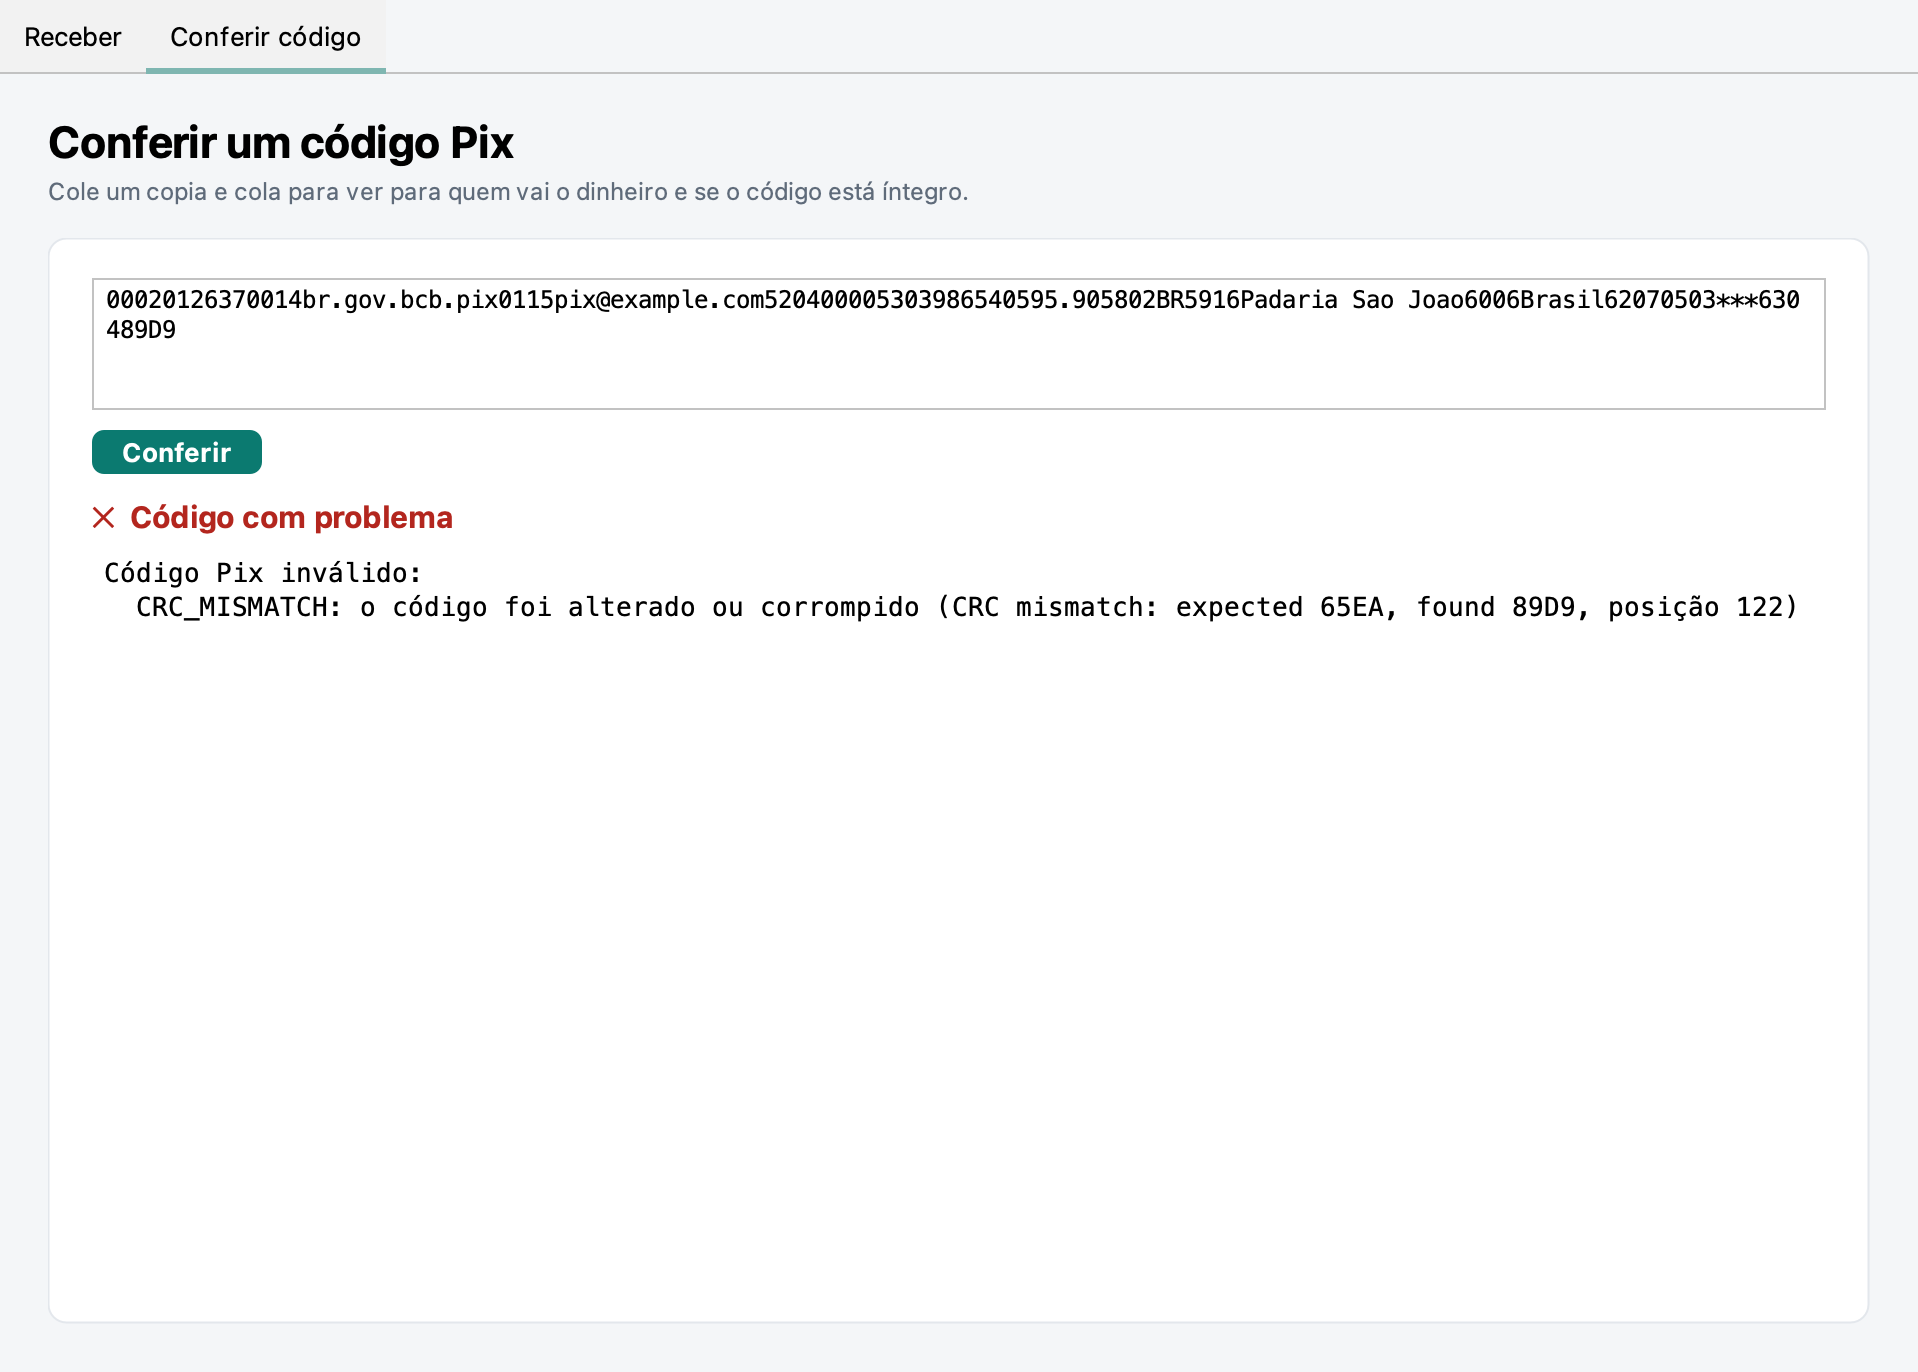
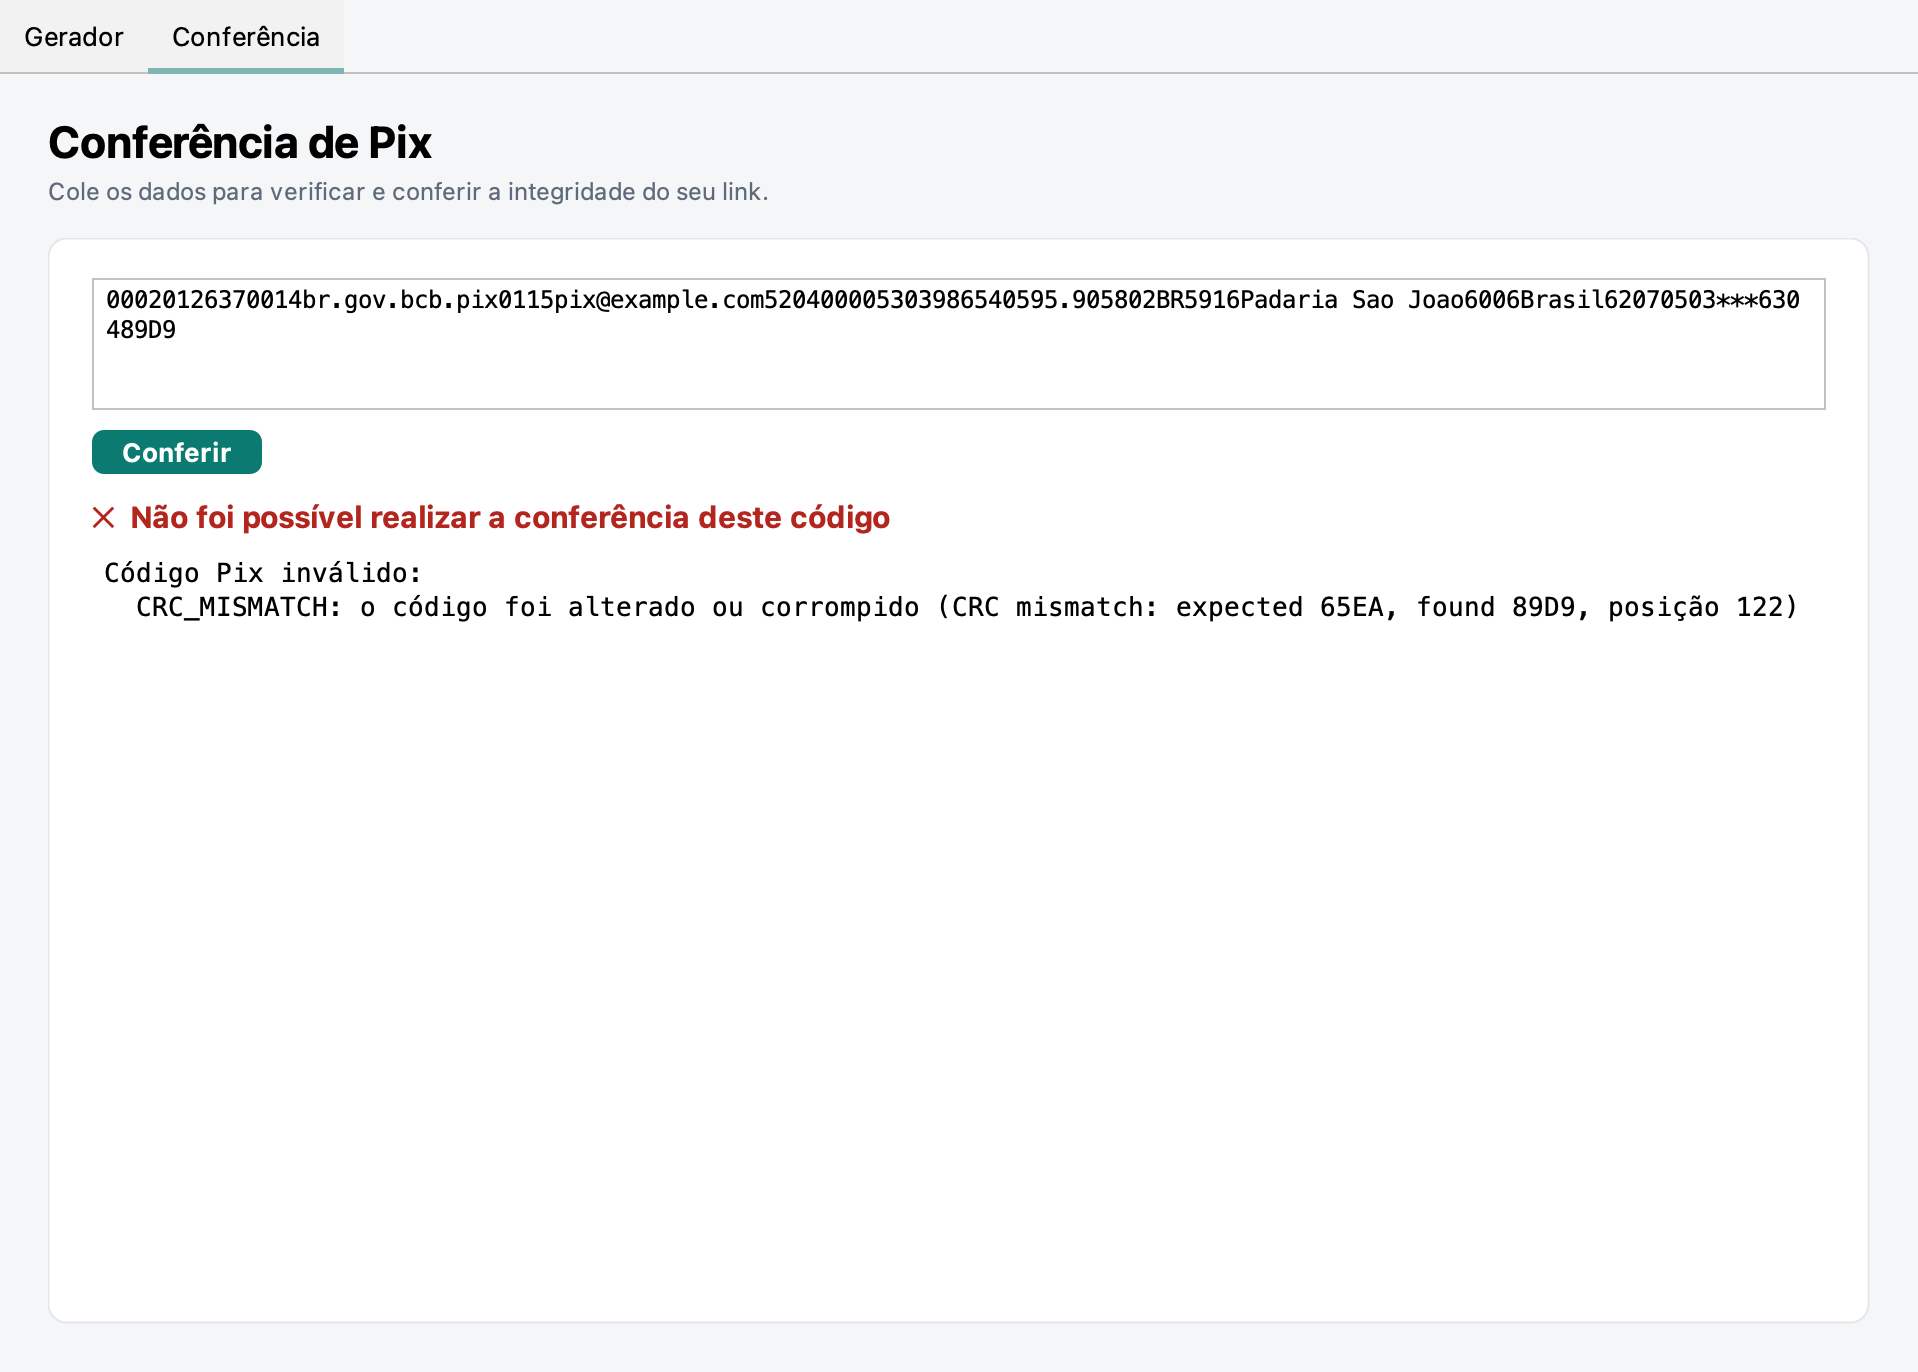
feat: rename the window tabs and labels to the owner wording
Gerador and Conferencia tabs, Estabelecimento for the name, Copiar and
Salvar buttons, a shorter subtitle and a plain failure message on the
check tab.

diff --git a/pix-brcode-cli/src/main/java/io/github/hitice/pix/brcode/cli/PixPanel.java b/pix-brcode-cli/src/main/java/io/github/hitice/pix/brcode/cli/PixPanel.java
@@ -74,15 +74,15 @@ final class PixPanel extends JPanel {
     final JTextArea payload = new JTextArea(3, 30);
     final JToggleButton moreOptions = new JToggleButton("Mais opções  ▸");
     final JPanel options = new JPanel(new GridBagLayout());
-    final JButton copy = new JButton("Copiar código");
-    final JButton save = new JButton("Salvar imagem");
+    final JButton copy = new JButton("Copiar");
+    final JButton save = new JButton("Salvar");
     final JTextArea pasted = new JTextArea(4, 50);
     final JLabel checkBadge = new JLabel(" ");
     final JTextArea checkResult = new JTextArea(8, 50);
     final JButton check = new JButton("Conferir");
 
     private final Timer typing = new Timer(TYPING_DELAY_MS, e -> generate());
-    private final Timer copiedReset = new Timer(2000, e -> copy.setText("Copiar código"));
+    private final Timer copiedReset = new Timer(2000, e -> copy.setText("Copiar"));
     private transient BrCode current;
 
     PixPanel() {
@@ -91,8 +91,8 @@ final class PixPanel extends JPanel {
         typing.setRepeats(false);
         copiedReset.setRepeats(false);
         JTabbedPane tabs = new JTabbedPane();
-        tabs.addTab("Receber", receiveTab());
-        tabs.addTab("Conferir código", checkTab());
+        tabs.addTab("Gerador", receiveTab());
+        tabs.addTab("Conferência", checkTab());
         add(tabs, BorderLayout.CENTER);
     }
 
@@ -100,8 +100,7 @@ final class PixPanel extends JPanel {
 
     private JComponent receiveTab() {
         JPanel page = page();
-        page.add(header("Receber por Pix",
-                "Digite a sua chave e o valor. O QR Code e o código copia e cola aparecem na hora."),
+        page.add(header("Gerador de Pix", "Digite os dados para gerar o QR Code."),
                 BorderLayout.NORTH);
         JPanel cards = new JPanel(new GridBagLayout());
         cards.setOpaque(false);
@@ -137,7 +136,7 @@ final class PixPanel extends JPanel {
         card.add(amount, c);
         card.add(small("Deixe vazio para quem paga digitar o valor.", MUTED), c);
         c.insets = new Insets(12, 0, 4, 0);
-        card.add(label("Seu nome ou da loja"), c);
+        card.add(label("Estabelecimento"), c);
         c.insets = new Insets(0, 0, 4, 0);
         card.add(name, c);
         card.add(small("Recomendado: é o nome que quem paga vê ao ler o QR Code.", MUTED), c);
@@ -334,8 +333,8 @@ final class PixPanel extends JPanel {
 
     private JComponent checkTab() {
         JPanel page = page();
-        page.add(header("Conferir um código Pix",
-                "Cole um copia e cola para ver para quem vai o dinheiro e se o código está íntegro."),
+        page.add(header("Conferência de Pix",
+                "Cole os dados para verificar e conferir a integridade do seu link."),
                 BorderLayout.NORTH);
         Card card = new Card(new BorderLayout(0, 12));
         pasted.setLineWrap(true);
@@ -375,7 +374,7 @@ final class PixPanel extends JPanel {
         List<String> problems = PixForm.problems(text);
         if (!problems.isEmpty()) {
             checkBadge.setForeground(ERROR);
-            checkBadge.setText("✕  Código com problema");
+            checkBadge.setText("✕  Não foi possível realizar a conferência deste código");
             checkResult.setText("Código Pix inválido:\n  " + String.join("\n  ", problems));
             return;
         }

diff --git a/pix-brcode-cli/src/main/java/io/github/hitice/pix/brcode/cli/PixCli.java b/pix-brcode-cli/src/main/java/io/github/hitice/pix/brcode/cli/PixCli.java
@@ -135,7 +135,7 @@ public final class PixCli {
         }
         options.put("key", key);
         options.put("amount", ask("Valor, por exemplo 0,01 (vazio deixa quem paga digitar): "));
-        options.put("name", ask("Seu nome ou da loja, recomendado (Enter usa \"" + PixForm.DEFAULT_NAME + "\"): "));
+        options.put("name", ask("Estabelecimento, recomendado (Enter usa \"" + PixForm.DEFAULT_NAME + "\"): "));
         options.put("city", ask("Cidade no QR, at\u00e9 15 caracteres (Enter usa \"" + PixForm.DEFAULT_CITY + "\"): "));
         options.put("txid", ask("Identificador, letras e n\u00fameros at\u00e9 25 (opcional): "));
         options.put("description", ask("Descri\u00e7\u00e3o (opcional): "));

diff --git a/pix-brcode-cli/src/test/java/io/github/hitice/pix/brcode/cli/PixPanelTest.java b/pix-brcode-cli/src/test/java/io/github/hitice/pix/brcode/cli/PixPanelTest.java
@@ -130,7 +130,7 @@ class PixPanelTest {
 
         panel.pasted.setText(payload.replace("5.00", "9.00"));
         panel.check();
-        assertThat(panel.checkBadge.getText()).contains("Código com problema");
+        assertThat(panel.checkBadge.getText()).contains("Não foi possível realizar a conferência");
         assertThat(panel.checkResult.getText()).contains("o código foi alterado ou corrompido");
     }
 

diff --git a/README.md b/README.md
@@ -256,7 +256,7 @@ ou conferir um código suspeito. Baixe o `pix.jar` da
 
 ![O programa gerando um Pix: chave reconhecida enquanto você digita, QR Code e copia e cola prontos](docs/images/janela-receber.png)
 
-A aba **Conferir código** mostra para quem vai o dinheiro, ou aponta o problema:
+A aba **Conferência** mostra para quem vai o dinheiro, ou aponta o problema:
 
 ![Conferindo um copia e cola com o valor alterado: o programa aponta que o código foi corrompido](docs/images/janela-conferir.png)
 
@@ -273,7 +273,7 @@ java -jar pix.jar ler "00020126...6304ABCD"
 | --- | --- |
 | `--chave` | Chave Pix de quem recebe (a única obrigatória) |
 | `--valor` | Valor em reais (`12,34`, `12.34` ou `R$ 1.234,56`); sem ele, quem paga digita |
-| `--nome` | Seu nome ou da loja, até 25 caracteres (recomendado) |
+| `--nome` | Nome do estabelecimento, até 25 caracteres (recomendado) |
 | `--cidade` | Cidade, até 15 caracteres |
 | `--txid` | Identificador do pedido, letras e números, até 25 |
 | `--descricao` | Mensagem para quem paga |
